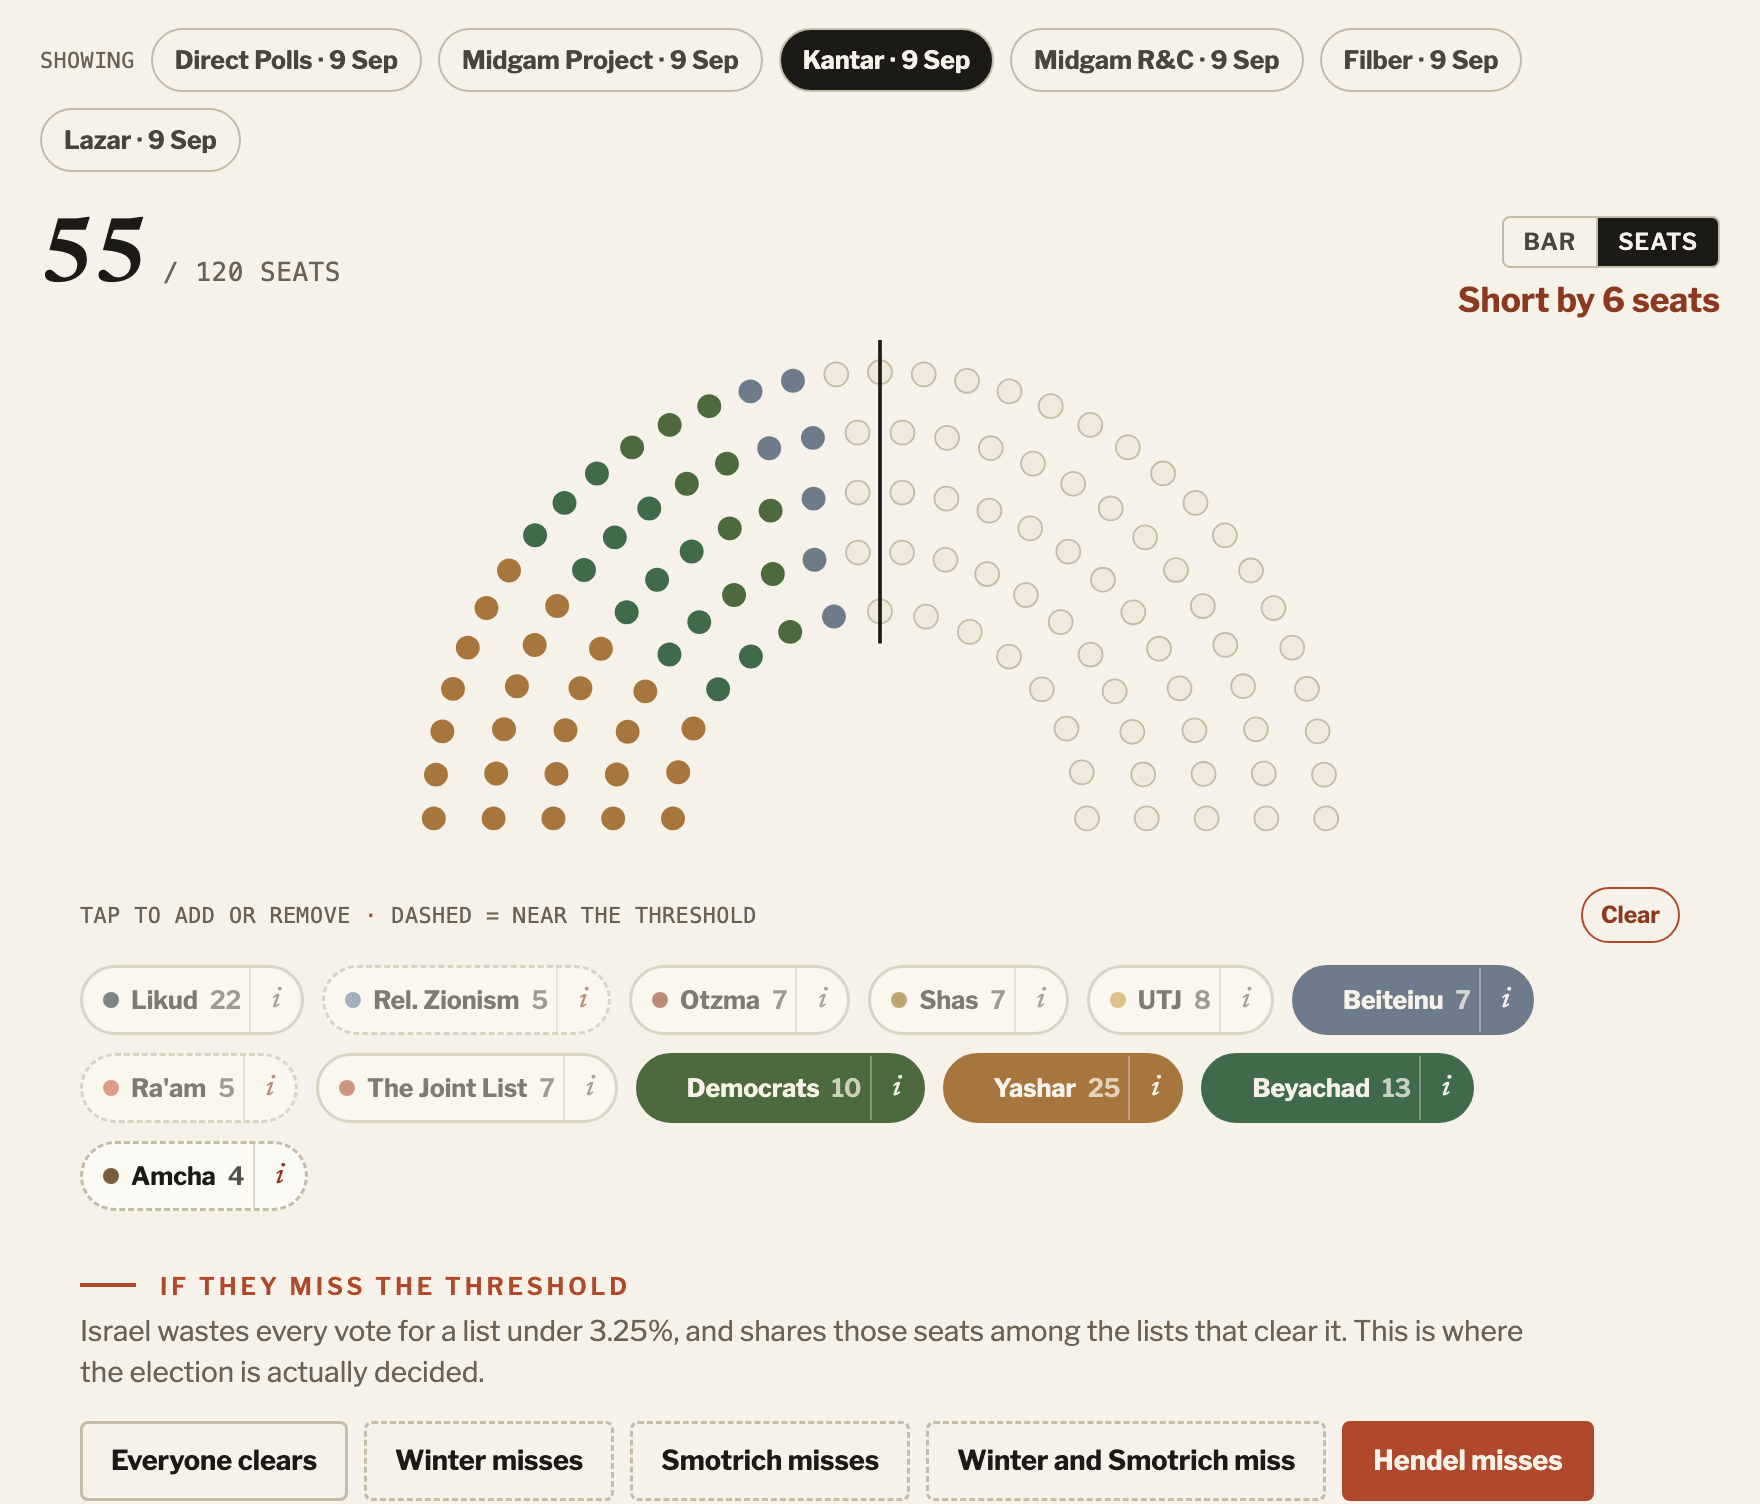
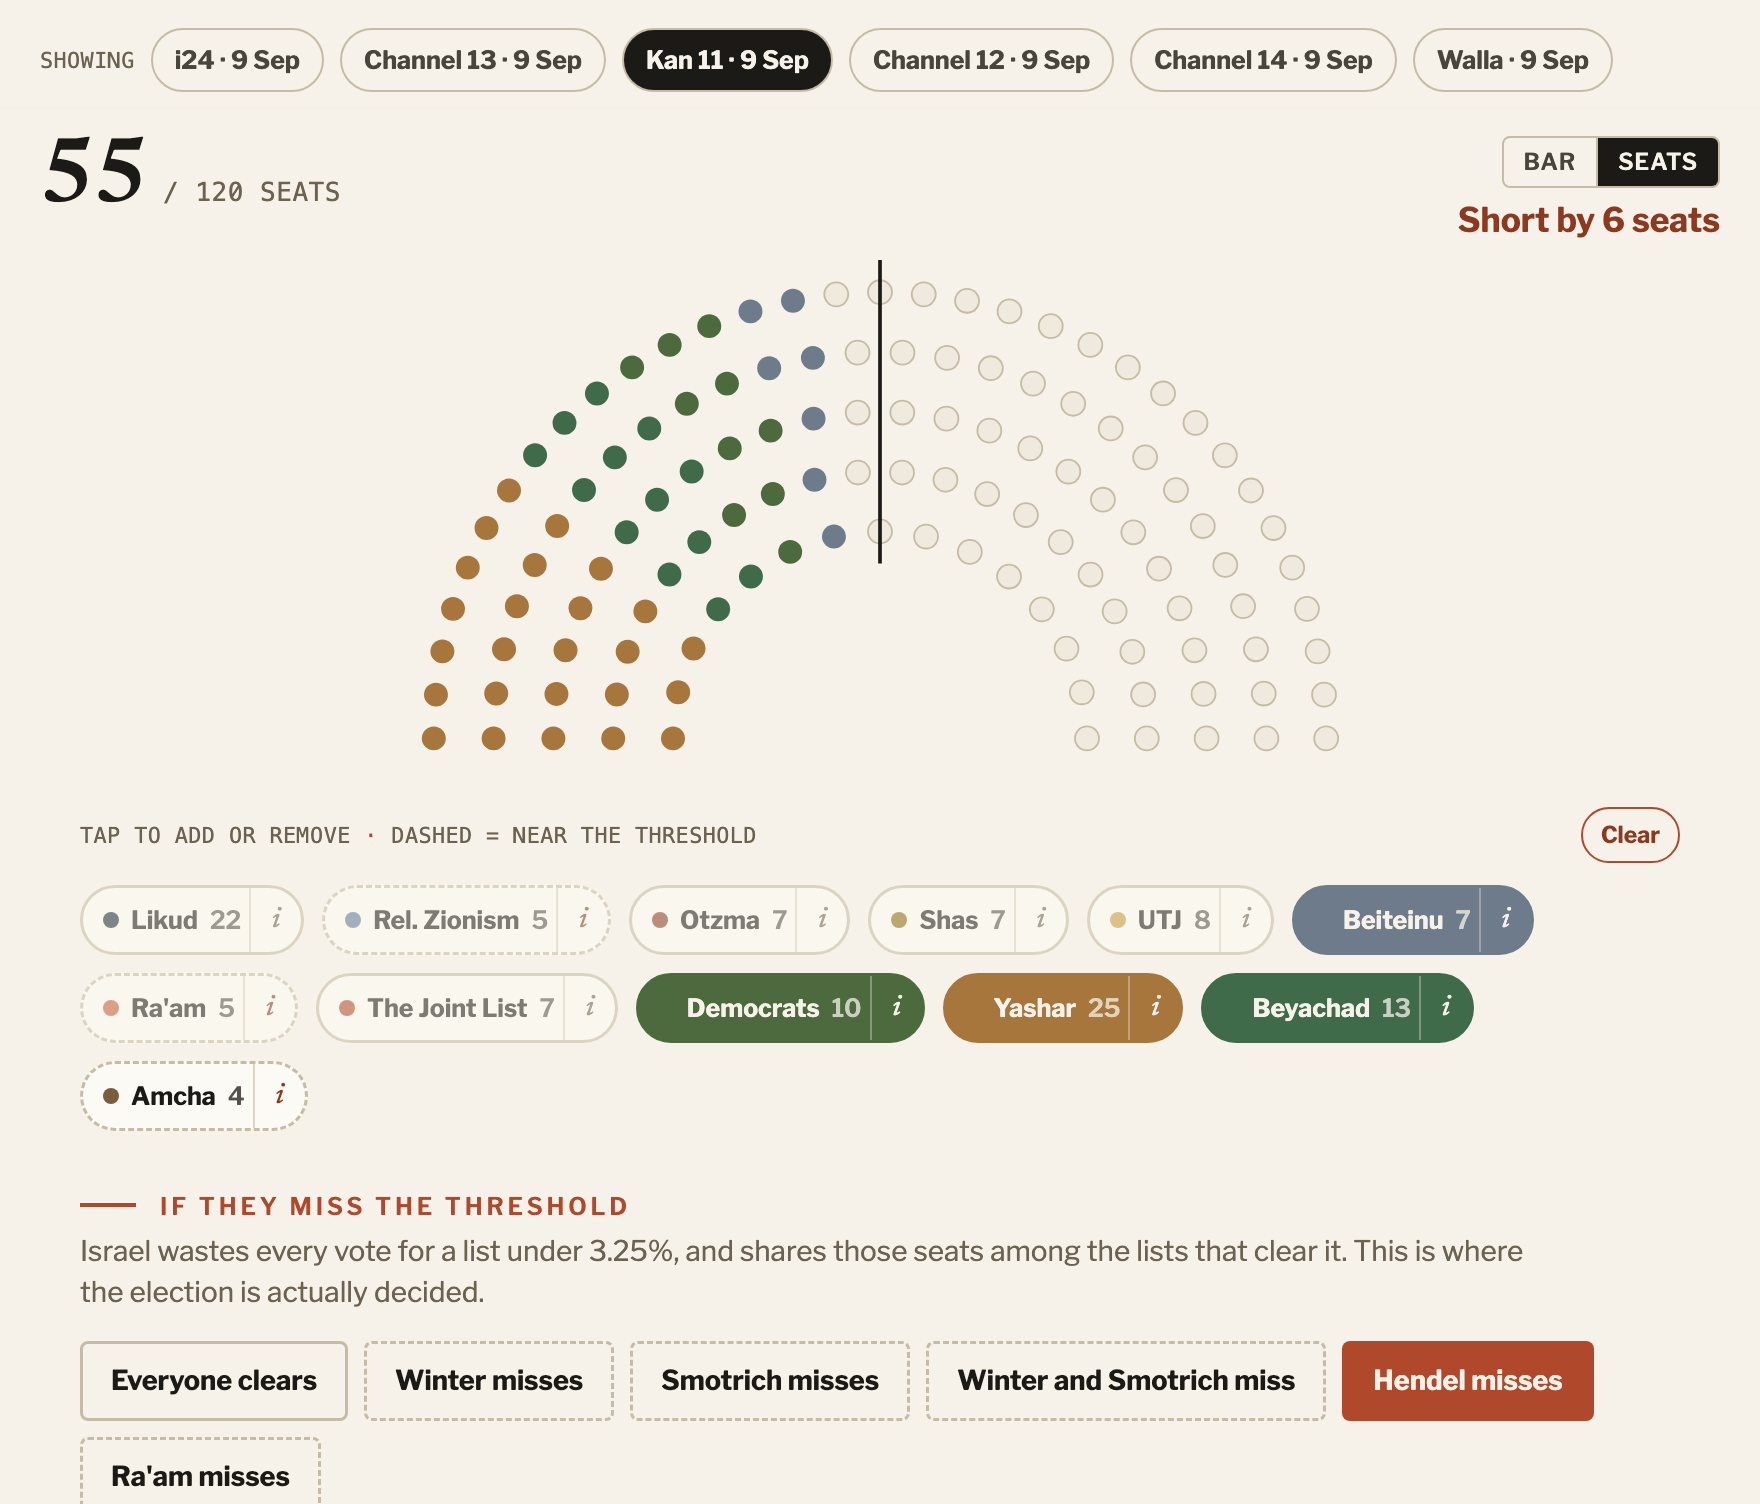
Label the polls by outlet, not by polling house
"Midgam Project · 9 Sep" and "Midgam R&C · 9 Sep" read as the same poll
listed twice. They are not: different firms, different outlets, different
numbers — Channel 13 has Likud on 19, Channel 12 has it on 21, and the two
disagree by four seats on the change bloc. Nothing was duplicated; the
labels just could not be told apart.

The picker now names the outlet, which is what readers recognise and what
actually distinguishes the six: i24, Channel 13, Kan 11, Channel 12,
Channel 14, Walla. The firm stays in the hover title and in the byline
attribution, so "Kantar/Kan 11" is unchanged.

Wikipedia writes the Hebrew outlet names, so publisher_names in
mapping.json maps them to the English ones — editable without touching
code, and anything unlisted passes through as written.

diff --git a/scripts/fetch_polls.py b/scripts/fetch_polls.py
@@ -499,7 +499,11 @@ def build(cache=None, year=None, verbose=True):
             "displayDateLong": p["date"].strftime("%b %-d, %Y"),
             "firm": p["firm"],
             "publisher": p["publisher"],
-            "label": f"{p['firm']} · {p['date'].strftime('%-d %b')}",
+            # Readers know the outlet, not the polling house, and two different
+            # firms both trade as "Midgam" — so "Midgam Project" and
+            # "Midgam R&C" read as one poll listed twice. The publisher
+            # disambiguates them and is the more recognisable name.
+            "label": f"{pub_name(p['publisher'], cfg) or p['firm']} · {p['date'].strftime('%-d %b')}",
             "isHeadline": p is pick,
             "note": notes.get(p["firm"], ""),
             "lean": leans.get(p["firm"]),
@@ -515,7 +519,7 @@ def build(cache=None, year=None, verbose=True):
             "displayDate": pick["date"].strftime("%-d %b"),
             "displayDateLong": pick["date"].strftime("%b %-d, %Y"),
             "firm": pick["firm"], "publisher": pick["publisher"],
-            "label": f"{pick['firm']} · {pick['date'].strftime('%-d %b')}",
+            "label": f"{pub_name(pick['publisher'], cfg) or pick['firm']} · {pick['date'].strftime('%-d %b')}",
             "isHeadline": True,
             "note": notes.get(pick["firm"], ""),
             "lean": leans.get(pick["firm"]),
@@ -590,6 +594,14 @@ def summarise():
         print("\n**Not in the latest poll:** "
               + ", ".join(d["unmappedAppParties"]))
     return 0
+
+
+def pub_name(publisher, cfg):
+    """Wikipedia writes the Hebrew outlet names; the picker shows what an
+    English-reading audience recognises. Unlisted publishers pass through."""
+    if not publisher:
+        return publisher
+    return cfg.get("publisher_names", {}).get(publisher, publisher)
 
 
 def main():
